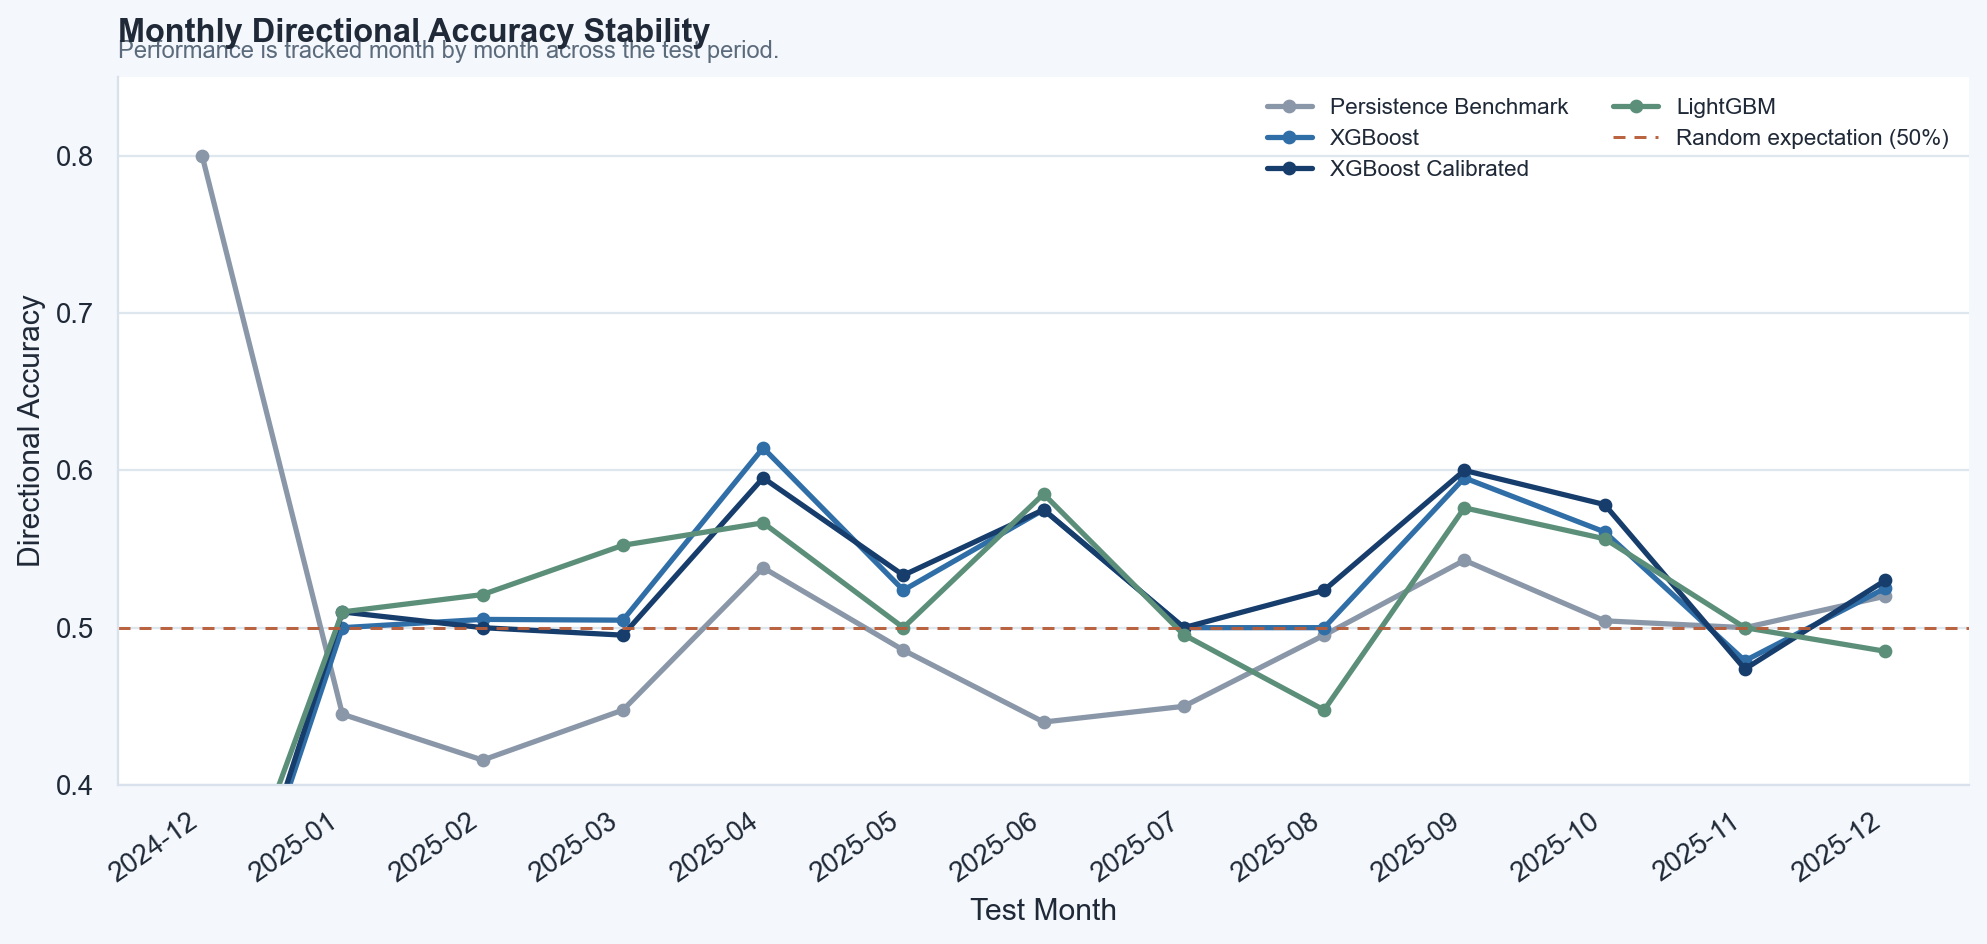
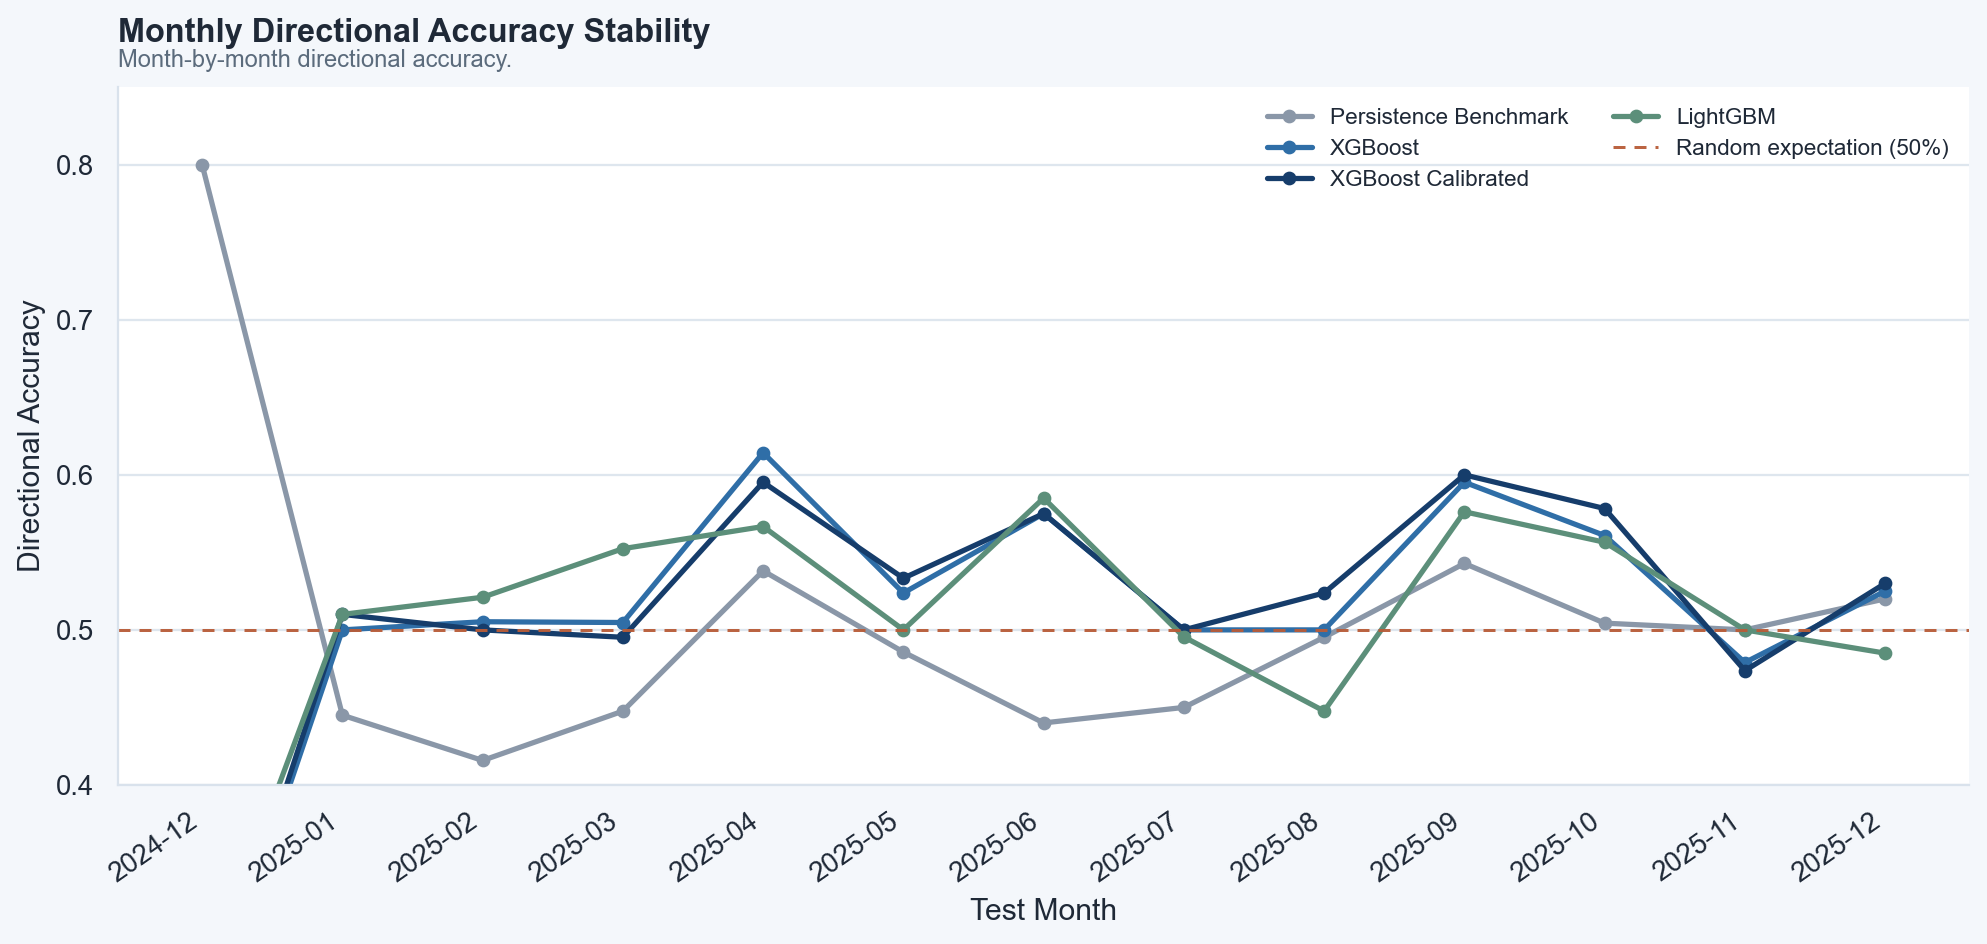
Refine chart titles and spacing

diff --git a/src/visualiser.py b/src/visualiser.py
@@ -82,7 +82,7 @@ class Visualiser:
         add_title(
             ax,
             f"Top {cfg.top_n_tickers} Tickers by 90-Day Average Trading Volume",
-            "Ranked within the thesis ticker candidate universe.",
+            None,
         )
         ax.xaxis.set_major_formatter(mtick.FuncFormatter(lambda x, _: f"{x:.0f}M"))
         ax.set_xlabel("Average daily volume (millions of shares)")
@@ -144,14 +144,7 @@ class Visualiser:
             ax.legend(frameon=False, fontsize=8.5, loc="upper right")
 
         fig.suptitle("Reddit Sentiment Time Series by Ticker", x=0.06, y=0.995, ha="left", fontsize=14, fontweight="bold")
-        fig.text(
-            0.06,
-            0.968,
-            "Daily ticker-level sentiment with smoothed VADER scores and optional FinBERT comparison.",
-            ha="left",
-            fontsize=9.5,
-            color="#5B6B7C",
-        )
+        fig.text(0.06, 0.968, "Daily ticker sentiment with smoothed VADER scores.", ha="left", fontsize=9.5, color="#5B6B7C")
         fig.tight_layout(rect=[0, 0, 1, 0.95])
         self._save(fig, "sentiment_timeseries")
 
@@ -197,11 +190,11 @@ class Visualiser:
                 ax.set_ylim(0.0, max(vals) * 1.22)
             ax.tick_params(axis="x", rotation=0, pad=6)
 
-        fig.suptitle("Model Comparison on the Held-Out Test Period", x=0.06, y=1.02, ha="left", fontsize=14, fontweight="bold")
+        fig.suptitle("Model Comparison", x=0.06, y=1.02, ha="left", fontsize=14, fontweight="bold")
         fig.text(
             0.06,
             0.965,
-            "Benchmark and model errors are shown alongside directional accuracy on the same locked test split.",
+            "MAE, RMSE, and directional accuracy across the benchmark and model set.",
             ha="left",
             fontsize=9.5,
             color="#5B6B7C",

diff --git a/src/results_analyzer.py b/src/results_analyzer.py
@@ -200,7 +200,7 @@ class ResultsAnalyzer:
         add_title(
             ax,
             "Directional Accuracy with 95% Confidence Intervals",
-            "Wilson intervals on the held-out test period.",
+            "Error bars show the 95% confidence interval for each model.",
         )
         add_reference_line(ax, 0.50, "Random expectation (50%)")
         ax.set_ylim(0.40, max(float(df["ci_upper"].max()) + 0.03, 0.55))
@@ -251,7 +251,7 @@ class ResultsAnalyzer:
         add_title(
             ax,
             f"Ticker-Level Directional Accuracy: {best_model} vs {BASELINE_MODEL_NAME}",
-            "Each bar pair is computed on the same test-period observations.",
+            None,
         )
         add_reference_line(ax, 0.50)
         ax.set_xticks(x)
@@ -270,7 +270,7 @@ class ResultsAnalyzer:
         add_title(
             ax,
             "Monthly Directional Accuracy Stability",
-            "Performance is tracked month by month across the test period.",
+            "Month-by-month directional accuracy.",
         )
         for model in monthly_df["model"].unique():
             part = monthly_df[monthly_df["model"] == model].sort_values("month")
@@ -301,7 +301,7 @@ class ResultsAnalyzer:
         add_title(
             ax,
             f"Residual Distribution for {best_model}",
-            "Residuals are computed as predicted return minus realised next-day return.",
+            "Prediction error is calculated as predicted return minus actual return.",
         )
         add_reference_line(ax, 0.0)
         ax.set_xlabel("Prediction Error (predicted - actual)")

diff --git a/src/plot_style.py b/src/plot_style.py
@@ -84,13 +84,14 @@ def style_axes(ax: plt.Axes, *, x_grid: bool = False, y_grid: bool = True) -> No
 
 
 def add_title(ax: plt.Axes, title: str, subtitle: str | None = None) -> None:
-    ax.set_title(title, loc="left", fontsize=13, fontweight="bold", pad=14)
+    ax.set_title(title, loc="left", fontsize=13, fontweight="bold", pad=18)
     if subtitle:
-        ax.text(
-            0.0,
-            1.02,
+        ax.annotate(
             subtitle,
-            transform=ax.transAxes,
+            xy=(0.0, 1.0),
+            xycoords="axes fraction",
+            xytext=(0, 6),
+            textcoords="offset points",
             ha="left",
             va="bottom",
             fontsize=9.5,
@@ -128,4 +129,3 @@ def apply_plotly_layout(fig, title: str, xaxis_title: str, yaxis_title: str, hei
         height=height,
         margin={"l": 70, "r": 30, "t": 70, "b": 70},
     )
-

diff --git a/src/sentiment_validation.py b/src/sentiment_validation.py
@@ -100,7 +100,7 @@ class SentimentValidationReport:
         add_title(
             ax,
             "Manual vs VADER Sentiment Labels",
-            "Counts are based on the reviewed sample committed in data/validation.",
+            "Counts are based on the reviewed sample.",
         )
         fig.tight_layout()
         fig.savefig(self.out_dir / "sentiment_validation_confusion.png", dpi=FIG_DPI, bbox_inches="tight")
